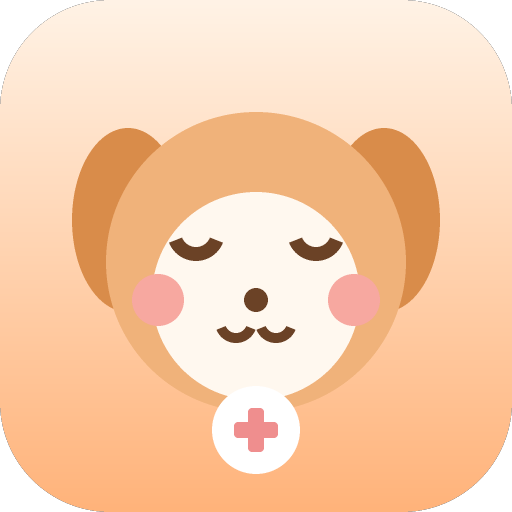
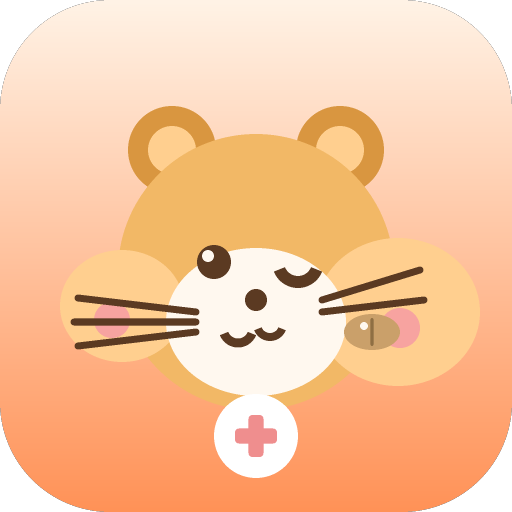
아이콘을 게임 고유의 개성이 담긴 디자인으로 교체
밋밋한 강아지 얼굴 대신, 이 게임의 시그니처 규칙인 "볼빵빵"(햄스터+아몬드
조합 보너스)을 형상화한 햄스터로 교체. 한쪽 볼에 아몬드를 문 채 윙크하는
장난기 있는 표정으로, 흔한 "귀여운 동물 얼굴" 아이콘과 구분되는 개성을 줌.

tools/gen-icons.js로 재생성 가능하도록 디자인 코드 자체를 수정.
APP_VERSION/CACHE_VERSION을 bump해 캐시된 구 아이콘이 남지 않게 함.

diff --git a/tools/gen-icons.js b/tools/gen-icons.js
@@ -3,7 +3,9 @@
  *   node tools/gen-icons.js
  * 루트에 icon-512.png / icon-192.png / icon-180.png 출력.
  *
- * 우리집 동물병원 모티프: 행복한 강아지 얼굴 + 작은 병원 십자가 목걸이.
+ * 우리집 동물병원 모티프: 게임의 시그니처 규칙인 "볼빵빵"(햄스터+아몬드 조합
+ * 보너스)에서 따온, 한쪽 볼에 아몬드를 문 통통한 햄스터 얼굴 + 병원 십자가 태그.
+ * 흔한 "귀여운 동물 얼굴" 아이콘과 구분되는 이 게임만의 개성 포인트.
  */
 const fs = require("fs");
 const path = require("path");
@@ -16,11 +18,13 @@ const SS = 3; // 슈퍼샘플링 (부드러운 가장자리)
 const hex = (h) => [parseInt(h.slice(1, 3), 16), parseInt(h.slice(3, 5), 16), parseInt(h.slice(5, 7), 16)];
 const mix = (a, b, t) => [a[0] + (b[0] - a[0]) * t, a[1] + (b[1] - a[1]) * t, a[2] + (b[2] - a[2]) * t];
 
-const BG_TOP = hex("#fff3e6"), BG_BOT = hex("#ffb37a");   // 사이트 테마와 맞춘 배경 그라데이션
-const FUR = hex("#f0b27a"), FUR_DARK = hex("#d98c4a");    // 강아지 얼굴/귀
-const CREAM = hex("#fff8ef"), LINE = hex("#6b4226");      // 얼굴 안쪽/선
-const BLUSH = hex("#f7a8a0");
-const TAG = hex("#ffffff"), CROSS = hex("#ef8e8e");       // 병원 십자가 목걸이
+const BG_TOP = hex("#fff3e6"), BG_BOT = hex("#ff9257");    // 이전보다 채도 높인 배경 그라데이션
+const FUR = hex("#f2b866"), FUR_DARK = hex("#d99640");     // 햄스터 얼굴/귀 (골든 계열)
+const CHEEK = hex("#ffcf8f");                              // 볼록한 볼주머니 (얼굴보다 밝게)
+const MUZZLE = hex("#fff8ef"), LINE = hex("#5b3a22");       // 주둥이 패치 / 선
+const BLUSH = hex("#f7a3a0");
+const ALMOND = hex("#caa06a"), ALMOND_LINE = hex("#8f6f43"); // 볼에 문 아몬드
+const TAG = hex("#ffffff"), CROSS = hex("#ef8e8e");         // 병원 십자가 목걸이
 
 const inCircle = (x, y, cx, cy, r) => (x - cx) ** 2 + (y - cy) ** 2 <= r * r;
 // "︶" 모양 아크: 원 테두리 중 아래쪽 각도 범위만 (스크린 좌표: y 아래로 증가)
@@ -44,32 +48,63 @@ function inRoundedRect(x, y, cx, cy, w, h, rad) {
   const dy = Math.max(Math.abs(y - cy) - hh, 0);
   return dx * dx + dy * dy <= rad * rad;
 }
+// 두 점을 잇는 두꺼운 선분 안쪽인지 (수염용)
+function inSegment(x, y, x1, y1, x2, y2, t) {
+  const dx = x2 - x1, dy = y2 - y1;
+  const len2 = dx * dx + dy * dy;
+  let u = len2 === 0 ? 0 : ((x - x1) * dx + (y - y1) * dy) / len2;
+  u = Math.min(Math.max(u, 0), 1);
+  const px = x1 + u * dx, py = y1 + u * dy;
+  return Math.hypot(x - px, y - py) <= t;
+}
 
-// 반환: [r,g,b,a] — 행복한 강아지 얼굴 + 병원 십자가 목걸이
+// 반환: [r,g,b,a] — 한쪽 볼에 아몬드를 문 통통한 햄스터 + 병원 십자가 태그
 function drawDesign(x, y) {
   if (!inRoundedSquare(x, y, 512, 110)) return [0, 0, 0, 0];
   let c = mix(BG_TOP, BG_BOT, y / 512); // 배경 그라데이션
 
-  // 늘어진 귀 (타원, 얼굴 뒤쪽에 먼저 그림)
-  if (inEllipse(x, y, 128, 220, 56, 92)) c = FUR_DARK;
-  if (inEllipse(x, y, 384, 220, 56, 92)) c = FUR_DARK;
+  // 둥근 귀 (얼굴 뒤쪽에 먼저 그림)
+  if (inCircle(x, y, 172, 150, 44)) c = FUR_DARK;
+  if (inCircle(x, y, 340, 150, 44)) c = FUR_DARK;
+  if (inCircle(x, y, 172, 150, 24)) c = CHEEK;
+  if (inCircle(x, y, 340, 150, 24)) c = CHEEK;
 
-  if (inCircle(x, y, 256, 262, 150)) c = FUR;                // 얼굴
-  if (inCircle(x, y, 256, 296, 104)) c = CREAM;              // 주둥이 안쪽
-  if (inCircle(x, y, 158, 300, 26)) c = BLUSH;               // 볼터치
-  if (inCircle(x, y, 354, 300, 26)) c = BLUSH;
+  if (inCircle(x, y, 256, 272, 138)) c = FUR;                 // 얼굴
 
-  const A0 = Math.PI * 0.12, A1 = Math.PI * 0.88;            // "︶" 각도 범위 (행복한 눈)
-  if (inArc(x, y, 196, 232, 22, 7, A0, A1)) c = LINE;
-  if (inArc(x, y, 316, 232, 22, 7, A0, A1)) c = LINE;
-  if (inCircle(x, y, 256, 300, 12)) c = LINE;                // 코
-  if (inArc(x, y, 236, 322, 16, 5, A0, A1)) c = LINE;        // 입 (양쪽 스마일)
-  if (inArc(x, y, 276, 322, 16, 5, A0, A1)) c = LINE;
+  // 양볼: 왼쪽은 살짝, 오른쪽은 아몬드를 물어 더 빵빵하게 (좌우 비대칭 = 개성 포인트)
+  if (inEllipse(x, y, 122, 306, 62, 56)) c = CHEEK;
+  if (inEllipse(x, y, 398, 312, 82, 74)) c = CHEEK;
+  if (inCircle(x, y, 112, 320, 18)) c = BLUSH;
+  if (inCircle(x, y, 400, 328, 20)) c = BLUSH;
+
+  if (inEllipse(x, y, 256, 322, 90, 74)) c = MUZZLE;          // 주둥이 패치
+
+  // 수염 (한쪽엔 짧게, 아몬드를 문 쪽엔 위로 살짝 들려서 표정에 생동감)
+  if (inSegment(x, y, 196, 312, 78, 298, 3.5)) c = LINE;
+  if (inSegment(x, y, 196, 322, 74, 322, 3.5)) c = LINE;
+  if (inSegment(x, y, 196, 332, 78, 346, 3.5)) c = LINE;
+  if (inSegment(x, y, 322, 300, 420, 270, 3.5)) c = LINE;
+  if (inSegment(x, y, 322, 312, 424, 300, 3.5)) c = LINE;
+
+  // 눈: 아몬드를 문 쪽(오른쪽)은 만족스러운 윙크, 반대쪽은 초롱초롱 뜬 눈 —
+  // "몰래 간식을 물고 있다 들킨" 장난기 있는 표정이 이 캐릭터만의 개성이 된다.
+  const A0 = Math.PI * 0.12, A1 = Math.PI * 0.88;             // "︶" 모양 윙크 각도 범위
+  if (inCircle(x, y, 214, 262, 17)) c = LINE;                 // 뜬 눈
+  if (inCircle(x, y, 208, 256, 6)) c = MUZZLE;                // 눈 하이라이트
+  if (inArc(x, y, 298, 262, 20, 6, A0, A1)) c = LINE;         // 윙크
+  if (inCircle(x, y, 256, 300, 11)) c = LINE;                 // 코
+  if (inArc(x, y, 238, 328, 15, 4.5, A0, A1)) c = LINE;       // 입 (한쪽으로 살짝 무너진 미소)
+  if (inArc(x, y, 270, 324, 13, 4, A0, A1)) c = LINE;
+
+  // 오른쪽 볼에 문 아몬드 — 이 게임의 시그니처 "볼빵빵" 조합을 상징, 입가에 걸쳐 살짝 삐져나오게
+  if (inEllipse(x, y, 372, 332, 28, 18)) c = ALMOND;
+  if (inRoundedRect(x, y, 372, 332, 3, 28, 1.5)) c = ALMOND_LINE;
+  if (inCircle(x, y, 364, 326, 4)) c = MUZZLE;                // 아몬드 하이라이트
 
   // 병원 십자가 목걸이 (동그란 흰 태그 + 빨간 십자)
-  if (inCircle(x, y, 256, 430, 44)) c = TAG;
-  if (inRoundedRect(x, y, 256, 430, 44, 16, 4)) c = CROSS;
-  if (inRoundedRect(x, y, 256, 430, 16, 44, 4)) c = CROSS;
+  if (inCircle(x, y, 256, 436, 42)) c = TAG;
+  if (inRoundedRect(x, y, 256, 436, 42, 15, 4)) c = CROSS;
+  if (inRoundedRect(x, y, 256, 436, 15, 42, 4)) c = CROSS;
 
   return [c[0], c[1], c[2], 255];
 }

diff --git a/sw.js b/sw.js
@@ -1,7 +1,7 @@
 // 서비스워커 — 캐시 고착 방지 확정 패턴 (4개 프로젝트가 각자 도달한 동일 결론)
 // 앱 코드(html/js/css): network-first / 불변 에셋: cache-first
 // ★ 코드를 수정한 커밋마다 CACHE_VERSION을 반드시 bump ★
-const CACHE_VERSION = "v20260714-8";
+const CACHE_VERSION = "v20260714-9";
 const CACHE_NAME = "app-" + CACHE_VERSION;
 // 새 js/에셋 파일을 추가하면 여기에도 추가 (Paws-Order 누락 전례)
 const PRECACHE = [

diff --git a/js/app-config.js b/js/app-config.js
@@ -4,7 +4,7 @@
 
 export const APP_ID = "mlahospital";
 export const APP_NAME = "우리집 동물병원";
-export const APP_VERSION = "20260714-8";
+export const APP_VERSION = "20260714-9";
 
 // 이 게임은 로컬 한 기기 돌려가며 플레이(hotseat)로 시작한다.
 // 온라인 동기화가 필요해지면 game-baserule/starter/js/net.js를 다시 가져와 연결할 것
